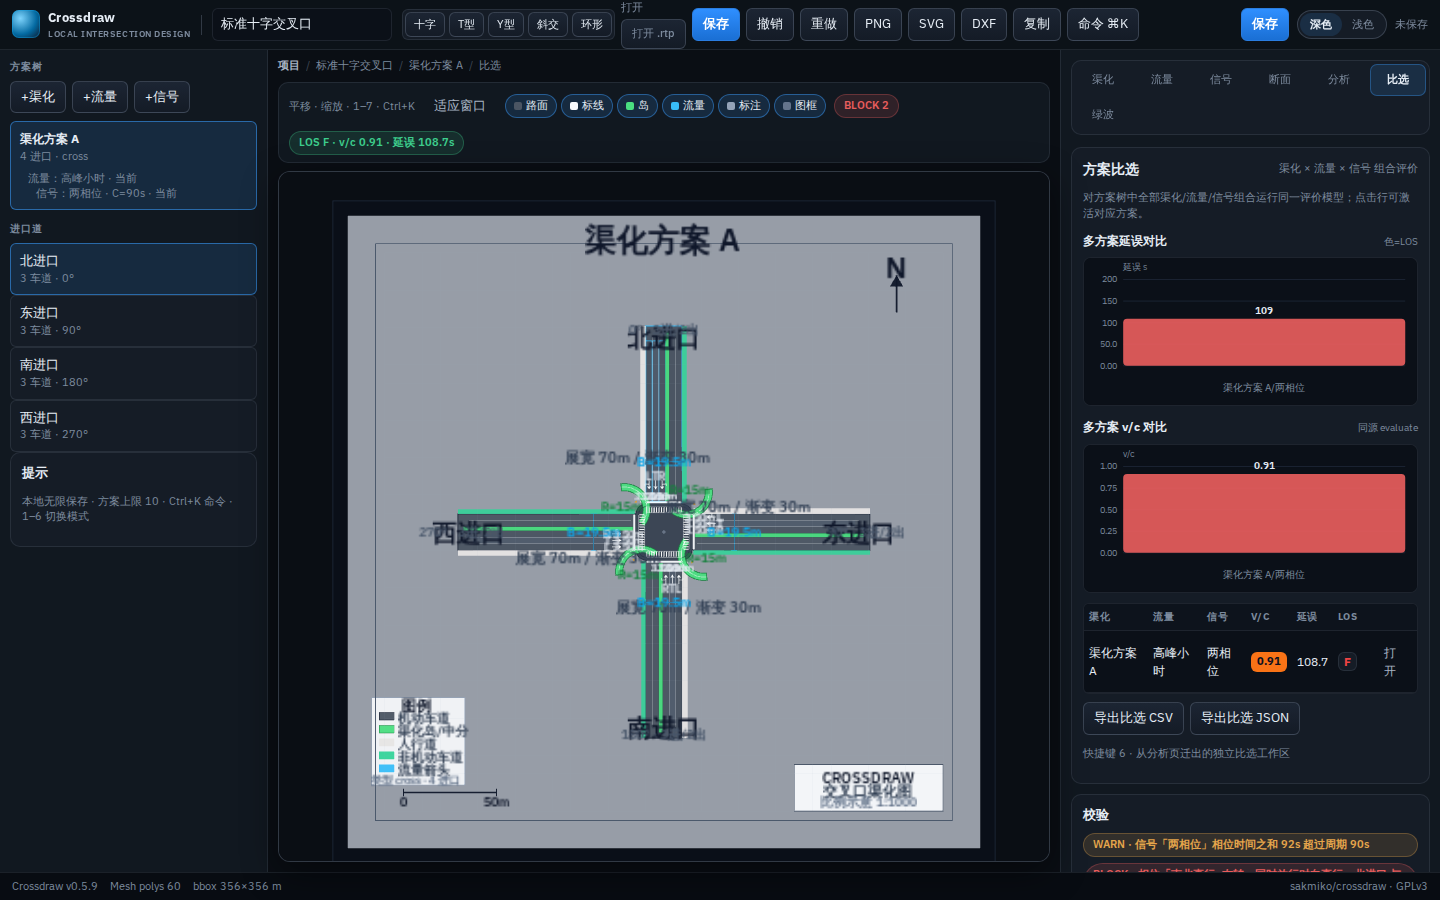
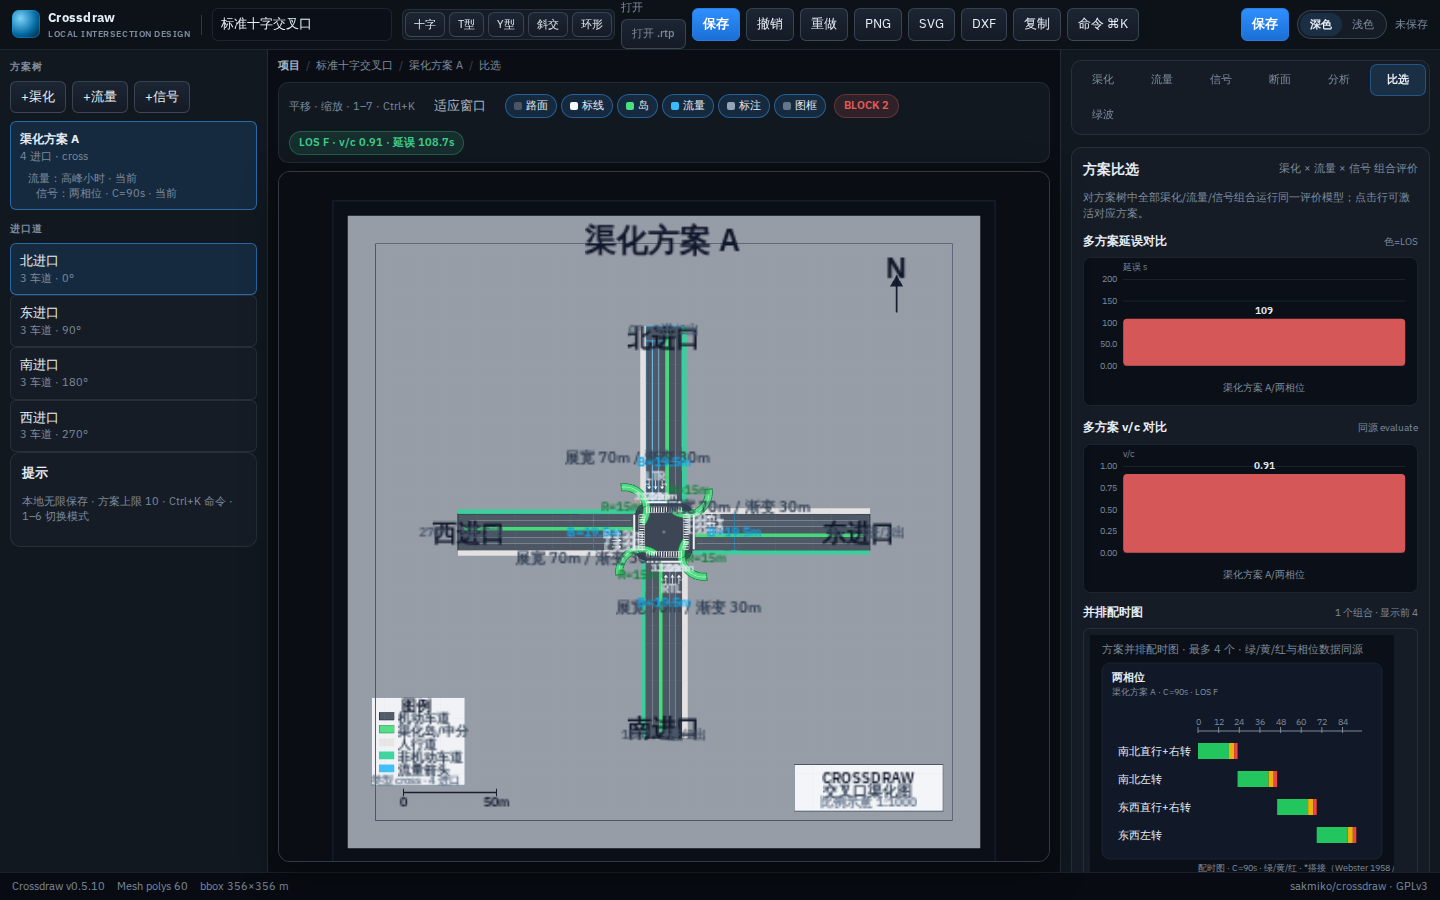
feat: v0.5.10 side-by-side scheme timing compare diagrams
Add multi-scheme timing strip and delay/v/c metric charts on compare
workspace; export SVG package for parallel timing diagrams.

Changed region(s): [[0.75, 0.6533, 1.0, 0.9956], [0.0625, 0.9644, 0.1875, 0.9956], [0.9375, 0.6533, 0.9688, 0.6844]]

diff --git a/src/ui/charts/schemeCompareDiagrams.ts b/src/ui/charts/schemeCompareDiagrams.ts
@@ -1,0 +1,170 @@
+/**
+ * Side-by-side scheme compare diagrams (比选并排配时/指标).
+ * Data-linked: each card = one channel×flow×signal combination.
+ */
+import type { AnalysisResult, Project, SignalScheme } from '@/domain/types'
+import { signalTimingDiagramSvg } from '@/ui/charts/professionalDiagrams'
+import { barChartSvg, vcHeatColor } from '@/ui/charts/svgCharts'
+
+export type SchemeSnapshot = {
+  channelId: string
+  flowId: string
+  signalId: string
+  channel: string
+  flow: string
+  signal: string
+  cycleSec: number
+  avgVc: number
+  avgDelay: number
+  avgQueueM: number
+  los: string
+  phases: { name: string; greenSec: number; yellowSec: number; allRedSec: number; isOverlap?: boolean }[]
+}
+
+export function collectSchemeSnapshots(
+  project: Project,
+  analyze: (
+    approaches: Project['channelizationSchemes'][0]['approaches'],
+    flow: Project['channelizationSchemes'][0]['flowSchemes'][0],
+    signal: SignalScheme,
+  ) => AnalysisResult,
+): SchemeSnapshot[] {
+  const out: SchemeSnapshot[] = []
+  for (const ch of project.channelizationSchemes) {
+    for (const fl of ch.flowSchemes) {
+      for (const sg of fl.signalSchemes) {
+        const r = analyze(ch.approaches, fl, sg)
+        out.push({
+          channelId: ch.id,
+          flowId: fl.id,
+          signalId: sg.id,
+          channel: ch.name,
+          flow: fl.name,
+          signal: sg.name,
+          cycleSec: sg.cycleSec,
+          avgVc: r.avgVc,
+          avgDelay: r.avgDelay,
+          avgQueueM: r.avgQueueM,
+          los: r.losFinal,
+          phases: sg.phases.map((p) => ({
+            name: p.name,
+            greenSec: p.greenSec,
+            yellowSec: p.yellowSec,
+            allRedSec: p.allRedSec,
+            isOverlap: p.isOverlap,
+          })),
+        })
+      }
+    }
+  }
+  return out
+}
+
+/** Horizontal strip of mini timing diagrams (max n). */
+export function schemeTimingStripSvg(
+  snaps: SchemeSnapshot[],
+  opts: { max?: number; cardW?: number; theme?: 'dark' | 'light' } = {},
+): string {
+  const max = opts.max ?? 4
+  const cardW = opts.cardW ?? 280
+  const gap = 12
+  const list = snaps.slice(0, max)
+  if (!list.length) {
+    return emptySvg(400, 120, '暂无方案')
+  }
+  const dark = opts.theme !== 'light'
+  const bg = dark ? '#0b1018' : '#f8fafc'
+  const panel = dark ? '#111827' : '#ffffff'
+  const text = dark ? '#e6edf5' : '#0f172a'
+  const muted = dark ? '#94a3b8' : '#64748b'
+  const grid = dark ? '#1e293b' : '#e2e8f0'
+
+  let maxH = 0
+  const cards = list.map((s) => {
+    const timing = signalTimingDiagramSvg(s.phases, s.cycleSec, { width: cardW - 16, height: undefined })
+    const hMatch = timing.match(/viewBox="0 0 [\d.]+ ([\d.]+)"/)
+    const th = hMatch ? Number(hMatch[1]) : 140
+    maxH = Math.max(maxH, th)
+    return { s, timing: stripShell(timing), th }
+  })
+
+  const headerH = 56
+  const W = list.length * cardW + (list.length - 1) * gap + 24
+  const H = headerH + maxH + 28
+  let body = `<rect width="${W}" height="${H}" fill="${bg}"/>`
+  body += `<text x="12" y="18" fill="${muted}" font-size="11">方案并排配时图 · 最多 ${max} 个 · 绿/黄/红与相位数据同源</text>`
+
+  cards.forEach((c, i) => {
+    const x = 12 + i * (cardW + gap)
+    body += `<rect x="${x}" y="28" width="${cardW}" height="${maxH + 20}" rx="8" fill="${panel}" stroke="${grid}"/>`
+    body += `<text x="${x + 10}" y="46" fill="${text}" font-size="11" font-weight="700">${escape(c.s.signal)}</text>`
+    body += `<text x="${x + 10}" y="60" fill="${muted}" font-size="9">${escape(c.s.channel)} · C=${c.s.cycleSec}s · LOS ${c.s.los}</text>`
+    body += `<g transform="translate(${x + 8}, 68)">${c.timing}</g>`
+  })
+  return `<svg xmlns="http://www.w3.org/2000/svg" viewBox="0 0 ${W} ${H}" width="${W}" height="${H}">${body}</svg>`
+}
+
+/** Grouped metric bars for delay / vc across schemes. */
+export function schemeMetricsCompareSvg(
+  snaps: SchemeSnapshot[],
+  opts: { width?: number; height?: number; metric?: 'delay' | 'vc' | 'queue' } = {},
+): string {
+  const metric = opts.metric ?? 'delay'
+  const data = snaps.map((s) => {
+    const value = metric === 'delay' ? s.avgDelay : metric === 'queue' ? s.avgQueueM : s.avgVc
+    const color =
+      metric === 'vc'
+        ? vcHeatColor(s.avgVc)
+        : value >= (metric === 'delay' ? 80 : 100)
+          ? '#ef4444'
+          : value >= (metric === 'delay' ? 55 : 60)
+            ? '#eab308'
+            : '#38bdf8'
+    const label = s.signal.length > 8 ? s.signal.slice(0, 8) : s.signal
+    return { label, value, color }
+  })
+  const unit = metric === 'delay' ? '延误 s' : metric === 'queue' ? '排队 m' : 'v/c'
+  return barChartSvg(data, {
+    width: opts.width ?? 520,
+    height: opts.height ?? 180,
+    unit,
+  })
+}
+
+/** Compact radar-like summary as multi-series bars for one snapshot (export helper). */
+export function schemeScorecardSvg(snap: SchemeSnapshot, opts: { width?: number } = {}): string {
+  const width = opts.width ?? 240
+  const height = 120
+  const bg = '#0b1018'
+  const items = [
+    { k: 'v/c', v: snap.avgVc, max: 1.2 },
+    { k: '延误', v: snap.avgDelay, max: 100 },
+    { k: '排队', v: snap.avgQueueM, max: 150 },
+  ]
+  let body = `<rect width="${width}" height="${height}" fill="${bg}"/>`
+  body += `<text x="8" y="14" fill="#94a3b8" font-size="9">${escape(snap.signal)} · LOS ${snap.los}</text>`
+  items.forEach((it, i) => {
+    const y = 28 + i * 28
+    const t = Math.min(1, it.v / it.max)
+    body += `<text x="8" y="${y + 12}" fill="#e2e8f0" font-size="10">${it.k}</text>`
+    body += `<rect x="48" y="${y}" width="${width - 60}" height="14" rx="3" fill="#1e293b"/>`
+    body += `<rect x="48" y="${y}" width="${Math.max(2, (width - 60) * t)}" height="14" rx="3" fill="${vcHeatColor(snap.avgVc)}"/>`
+    body += `<text x="${width - 8}" y="${y + 11}" text-anchor="end" fill="#94a3b8" font-size="9">${it.v.toFixed(1)}</text>`
+  })
+  return `<svg xmlns="http://www.w3.org/2000/svg" viewBox="0 0 ${width} ${height}">${body}</svg>`
+}
+
+function stripShell(svg: string): string {
+  return svg
+    .replace(/<svg[^>]*>/i, '')
+    .replace(/<\/svg>/i, '')
+    .replace(/<rect[^>]*width="100%"[^>]*\/>/i, '')
+}
+
+function emptySvg(w: number, h: number, msg: string): string {
+  return `<svg xmlns="http://www.w3.org/2000/svg" viewBox="0 0 ${w} ${h}"><rect width="100%" height="100%" fill="#0b1018"/><text x="50%" y="50%" text-anchor="middle" fill="#8494ab" font-size="12">${msg}</text></svg>`
+}
+
+function escape(s: string): string {
+  return s.replace(/&/g, '&amp;').replace(/</g, '&lt;').replace(/>/g, '&gt;')
+}

diff --git a/src/ui/charts/ChartPanels.tsx b/src/ui/charts/ChartPanels.tsx
@@ -22,9 +22,16 @@ import type {
   SignalScheme,
   Approach,
   Phase,
+  Project,
 } from '@/domain/types'
 import { buildConflictMatrix } from '@/domain/signal/conflictMatrix'
 import { useAppStore } from '@/state/store'
+import {
+  collectSchemeSnapshots,
+  schemeMetricsCompareSvg,
+  schemeTimingStripSvg,
+} from './schemeCompareDiagrams'
+import { analyzeIntersection } from '@/domain/analysis'
 
 function useChartColors() {
   const theme = useAppStore((s) => s.theme)
@@ -405,3 +412,45 @@ export function TimingCompareCharts({
 }
 
 export type { Phase }
+
+
+export function SchemeCompareBoard({ project }: { project: Project }) {
+  const colors = useChartColors()
+  const snaps = useMemo(() => collectSchemeSnapshots(project, analyzeIntersection), [project])
+  const strip = useMemo(
+    () =>
+      themeSvg(
+        schemeTimingStripSvg(snaps, { max: 4, theme: colors.bg === '#ffffff' ? 'light' : 'dark' }),
+        colors,
+      ),
+    [snaps, colors],
+  )
+  const delaySvg = useMemo(
+    () => themeSvg(schemeMetricsCompareSvg(snaps, { metric: 'delay', width: 360, height: 160 }), colors),
+    [snaps, colors],
+  )
+  const vcSvg = useMemo(
+    () => themeSvg(schemeMetricsCompareSvg(snaps, { metric: 'vc', width: 360, height: 160 }), colors),
+    [snaps, colors],
+  )
+  if (!snaps.length) return <p className="hint">请先在方案树中创建渠化/流量/信号方案</p>
+  return (
+    <div className="chart-card scheme-compare-board">
+      <div className="chart-title">
+        <span>并排配时图</span>
+        <small>
+          {snaps.length} 个组合 · 显示前 4
+        </small>
+      </div>
+      <div className="scheme-strip" dangerouslySetInnerHTML={{ __html: strip }} />
+      <div className="chart-title" style={{ marginTop: 12 }}>
+        <span>指标对比</span>
+        <small>延误 · v/c</small>
+      </div>
+      <div className="dual-charts">
+        <div dangerouslySetInnerHTML={{ __html: delaySvg }} />
+        <div dangerouslySetInnerHTML={{ __html: vcSvg }} />
+      </div>
+    </div>
+  )
+}

diff --git a/tests/unit/scheme-compare-diagrams.test.ts b/tests/unit/scheme-compare-diagrams.test.ts
@@ -1,0 +1,29 @@
+import { describe, expect, it } from 'vitest'
+import { createCrossTemplate } from '@/domain'
+import {
+  collectSchemeSnapshots,
+  schemeMetricsCompareSvg,
+  schemeTimingStripSvg,
+} from '@/ui/charts/schemeCompareDiagrams'
+import { analyzeIntersection } from '@/domain/analysis'
+
+describe('scheme compare diagrams', () => {
+  it('collects snapshots and builds strip', () => {
+    const p = createCrossTemplate()
+    // duplicate signal for multi strip
+    const fl = p.channelizationSchemes[0].flowSchemes[0]
+    fl.signalSchemes.push({
+      ...fl.signalSchemes[0],
+      id: 'sig-b',
+      name: '备选信号',
+      cycleSec: 100,
+    })
+    const snaps = collectSchemeSnapshots(p, analyzeIntersection)
+    expect(snaps.length).toBeGreaterThanOrEqual(2)
+    const strip = schemeTimingStripSvg(snaps, { max: 4, theme: 'dark' })
+    expect(strip).toContain('并排配时图')
+    expect(strip).toContain('配时图')
+    const delay = schemeMetricsCompareSvg(snaps, { metric: 'delay' })
+    expect(delay).toContain('svg')
+  })
+})

diff --git a/src/ui/layout/App.tsx b/src/ui/layout/App.tsx
@@ -15,7 +15,7 @@ import { downloadBlob, downloadText } from '@/io/download'
 import { loadDraft, clearDraft } from '@/io/autosave'
 import { persistAutosave, redo, undo, useAppStore } from '@/state/store'
 import { CommandPalette } from '@/ui/common/CommandPalette'
-import { AnalysisCharts, BandCharts, CompareCharts, CrossSectionCharts, FlowCharts, SignalCharts, TimingCompareCharts } from '@/ui/charts/ChartPanels'
+import { AnalysisCharts, BandCharts, CompareCharts, CrossSectionCharts, FlowCharts, SchemeCompareBoard, SignalCharts, TimingCompareCharts } from '@/ui/charts/ChartPanels'
 import { ControlMatrixPanel, FlowDirectionPanel, PhaseFacePanel, SignalTimingPanel, TimeSpacePanel } from '@/ui/charts/ProfessionalPanels'
 import { InteractiveTimeSpace, buildTimeSpaceExportSvg } from '@/ui/charts/InteractiveTimeSpace'
 import { corridorSegments } from '@/domain/analysis/corridor'
@@ -24,6 +24,7 @@ import { compareTimingMethods, recommendTimingRow, type TimingCompareRow } from 
 import { vcHeatColor } from '@/ui/charts/svgCharts'
 import { analysisMarkdown, bandMarkdown, exportJsonFile, exportSvgFile } from '@/io/exportCharts'
 import { buildAnalysisReportSvg } from '@/io/analysisReportSvg'
+import { collectSchemeSnapshots, schemeTimingStripSvg, schemeMetricsCompareSvg } from '@/ui/charts/schemeCompareDiagrams'
 import {
   controlMatrixSvg,
   flowMovementDiagramSvg,
@@ -1235,6 +1236,7 @@ export default function App() {
                   los: r.los,
                 }))}
               />
+              <SchemeCompareBoard project={project} />
               <div className="table-wrap" style={{ marginTop: 10 }}>
                 <table className="table">
                   <thead>
@@ -1304,6 +1306,27 @@ export default function App() {
                   }}
                 >
                   导出比选 JSON
+                </button>
+                <button
+                  type="button"
+                  className="primary"
+                  onClick={() => {
+                    const snaps = collectSchemeSnapshots(project, analyzeIntersection)
+                    exportSvgFile(
+                      `${project.name}-compare-timing.svg`,
+                      schemeTimingStripSvg(snaps, { max: 4, theme }),
+                    )
+                    exportSvgFile(
+                      `${project.name}-compare-delay.svg`,
+                      schemeMetricsCompareSvg(snaps, { metric: 'delay' }),
+                    )
+                    exportSvgFile(
+                      `${project.name}-compare-vc.svg`,
+                      schemeMetricsCompareSvg(snaps, { metric: 'vc' }),
+                    )
+                  }}
+                >
+                  导出并排配时图
                 </button>
               </div>
               <p className="hint">快捷键 6 · 从分析页迁出的独立比选工作区</p>
@@ -1495,7 +1518,7 @@ export default function App() {
       </div>
 
       <footer className="status">
-        <span>Crossdraw v0.5.9</span>
+        <span>Crossdraw v0.5.10</span>
         <span>Mesh polys {mesh.polygons.length}</span>
         <span>
           bbox {(mesh.bbox.maxX - mesh.bbox.minX) | 0}×{(mesh.bbox.maxY - mesh.bbox.minY) | 0} m

diff --git a/src/ui/styles.css b/src/ui/styles.css
@@ -807,3 +807,28 @@ tr.row-recommend td {
   color: var(--muted);
   margin-left: 2px;
 }
+
+.scheme-strip {
+  overflow-x: auto;
+  margin-top: 8px;
+  border-radius: var(--radius-sm);
+  border: 1px solid var(--border);
+  background: var(--panel-2);
+  padding: 6px;
+}
+.scheme-strip svg {
+  display: block;
+  max-width: none;
+  height: auto;
+}
+.dual-charts {
+  display: grid;
+  grid-template-columns: 1fr 1fr;
+  gap: 8px;
+}
+@media (max-width: 900px) {
+  .dual-charts { grid-template-columns: 1fr; }
+}
+.scheme-compare-board {
+  margin-top: 10px;
+}

diff --git a/tests/e2e/mvp.spec.ts b/tests/e2e/mvp.spec.ts
@@ -1,20 +1,18 @@
 import { expect, test } from '@playwright/test'
 
-test.describe('Crossdraw v0.5.9', () => {
-  test('compare workspace mode', async ({ page }) => {
+test.describe('Crossdraw v0.5.10', () => {
+  test('scheme compare timing strip', async ({ page }) => {
     await page.setViewportSize({ width: 1440, height: 900 })
     await page.goto('/')
     await page.getByRole('button', { name: '十字', exact: true }).click()
     await expect(page.locator('#canvas-root')).toBeVisible({ timeout: 20000 })
     await page.waitForTimeout(400)
 
+    // create a second signal scheme via toolbar if available
     const tablist = page.getByRole('tablist', { name: '编辑模式' })
     await tablist.getByRole('tab', { name: '比选' }).click()
-    await expect(page.getByText('方案比选').first()).toBeVisible({ timeout: 10000 })
-    await expect(page.getByRole('button', { name: '导出比选 CSV' })).toBeVisible()
+    await expect(page.getByText('并排配时图').first()).toBeVisible({ timeout: 10000 })
+    await expect(page.getByRole('button', { name: '导出并排配时图' })).toBeVisible()
     await page.screenshot({ path: 'docs/screenshots/11-compare.png', fullPage: true })
-
-    await tablist.getByRole('tab', { name: '分析' }).click()
-    await expect(page.getByRole('button', { name: '打开方案比选工作区' })).toBeVisible({ timeout: 10000 })
   })
 })

diff --git a/CHANGELOG.md b/CHANGELOG.md
@@ -1,5 +1,13 @@
 # CHANGELOG
 
+## 0.5.10 — 2026-07-16
+
+- 比选：并排配时图（最多 4 方案绿黄红条）
+- 比选：延误/v/c 双指标图
+- 导出并排配时图 SVG 包
+
+# CHANGELOG
+
 ## 0.5.9 — 2026-07-16
 
 - 独立「比选」工作区（模式轨第 6 项，快捷键 6）